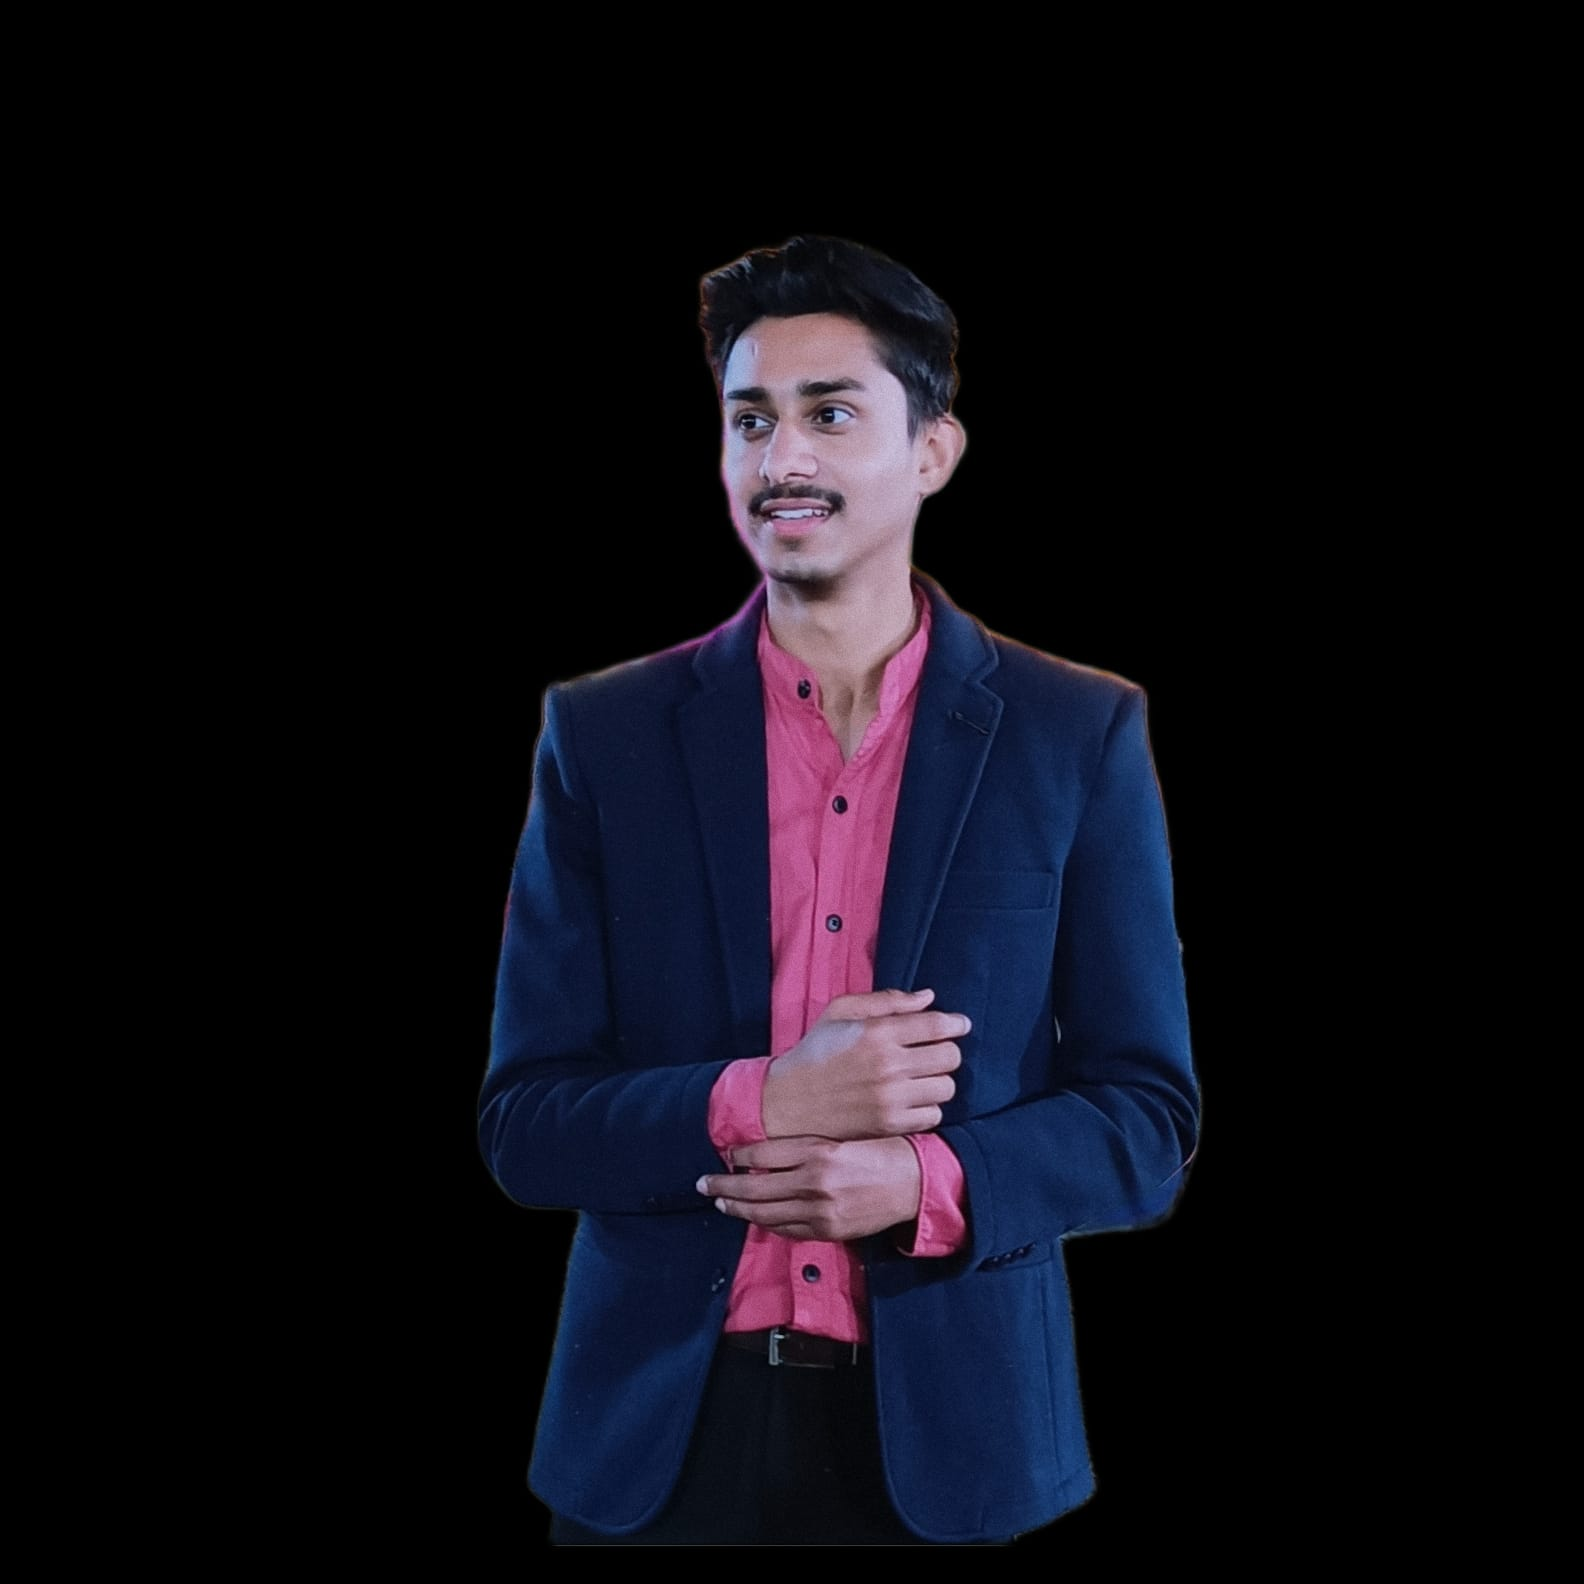
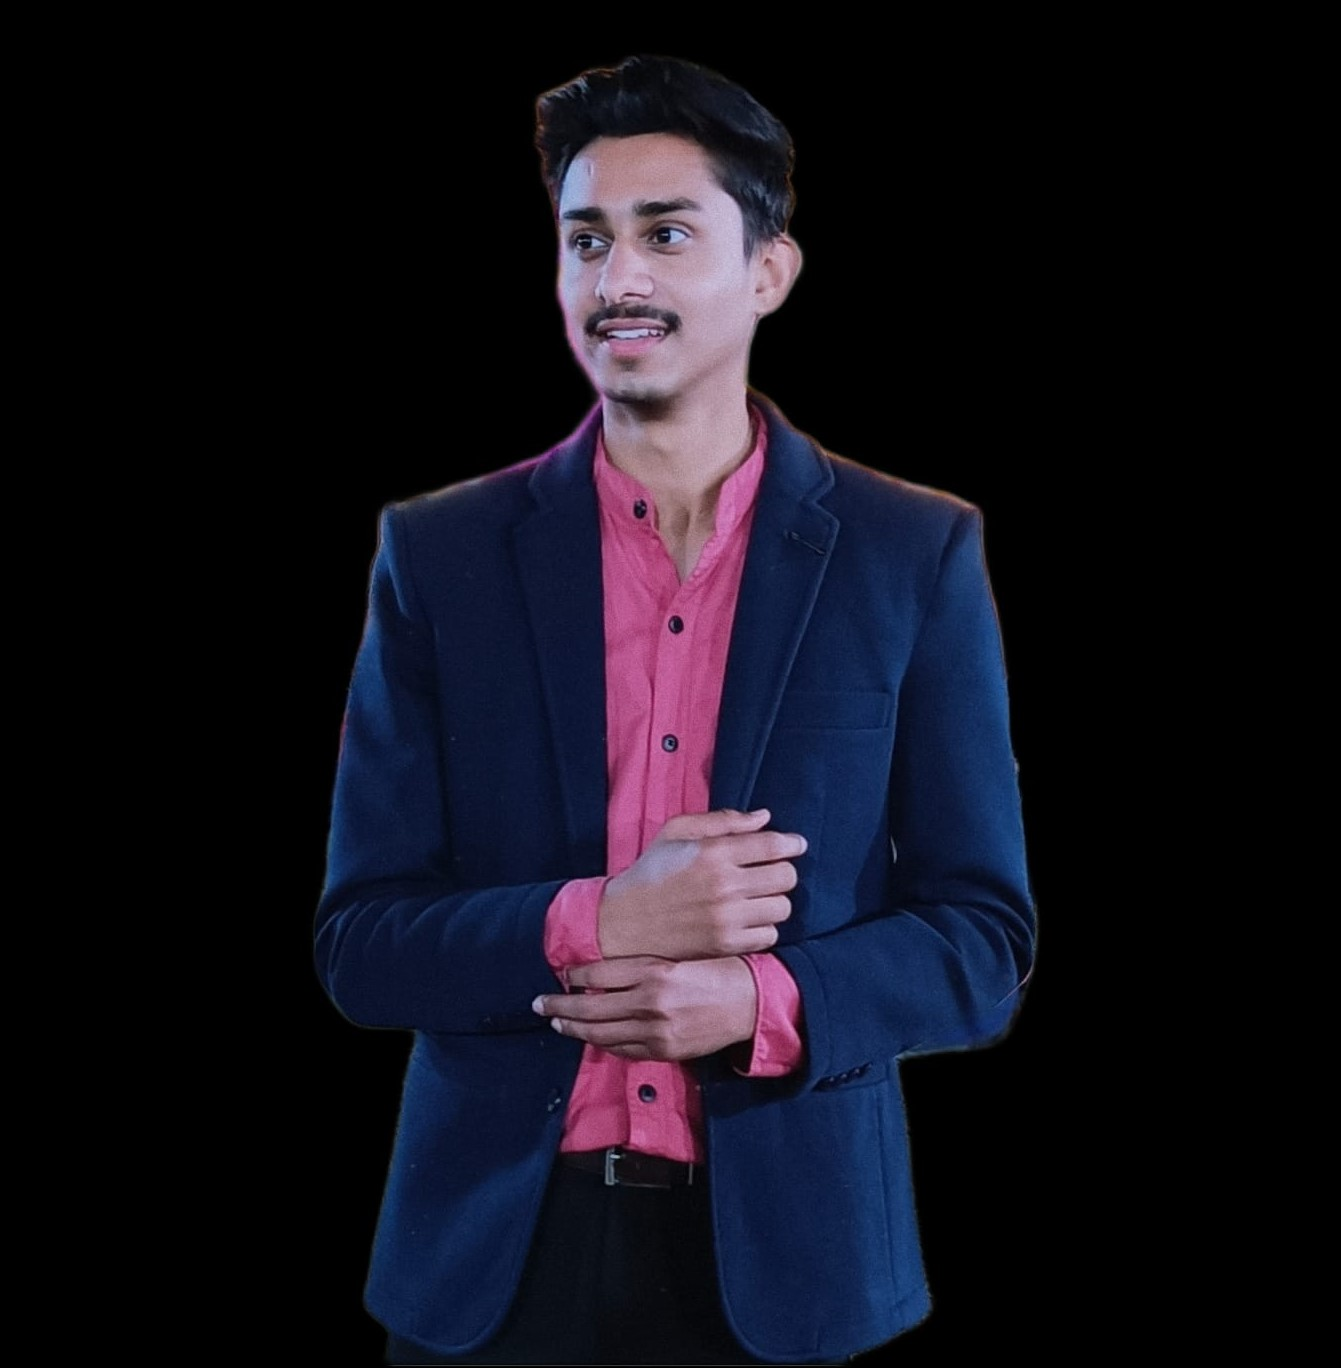
responsive

Changed region(s): [[0.214, 0.0307, 0.7949, 1.0]]

diff --git a/style.css b/style.css
@@ -5,30 +5,52 @@
     box-sizing: border-box ;
 }
 body{
-    background: #080808;
-    color: #fff;
+    background: #000000;
+    color: #fff;   
 }
-#header{
-    width: 100%;   
-    height: 100vh;   
-    background-image: url(/images/floating.gif);
-    background-size: 900px 800px  ;
-    background-position: right;   
-    background-repeat: no-repeat;
-    object-fit: cover;
-    position: relative;
-    right: 70px;  
-}
+    /* #header{
+        width: 100%;   
+        height: 100vh;   
+        background-image: url(img/floating.gif);
+        background-size: 700px 700px  ;
+        background-position: cover;   
+        background-repeat: no-repeat;
+        background-position-y: 100px;
+        background-position-x: 85%;
+        /* object-fit: cover;
+        position: relative;
+        right: 40px;   */
+    */
 
 .container{
     padding: 10px 10%;
 /*  border: 2px solid red;  */
+}
+.main{
+    display: flex;
+   padding-left: 15%;
+    /* border: 1px solid red; */
+}
+.main .img{
+    /* border: 1px solid red; */
+    width: 49.5%;
+}
+.main .img img{
+    width: 75%;
+    height: 80%;
+    margin: 30px 0 0 50px;
+}
+.main .header-text{
+    /* border: 1px solid red; */
+    width: 49.5%;
+    
 }
 nav{
     display: flex;
     align-items: justify;
     justify-content: space-between;
     flex-wrap: wrap;
+    padding-left: 10%;
     /* border: 2px solid red;  */
 }
 
@@ -42,6 +64,7 @@ nav ul li{
     display: inline-block;
     list-style: none;
     margin: 15px 20px ;
+    padding-right: 40px;
 }
 
 nav ul li a {
@@ -94,6 +117,7 @@ nav ul li a:hover::after{
 .about-col-1 img{
     width: 100%;
     border-radius: 15px;
+
 }
 .about-col-2{
     flex-basis: 60%;
@@ -102,6 +126,9 @@ nav ul li a:hover::after{
     font-size: 60px;
     font-weight: 600;
     color: #fff;
+}
+.p1{
+    padding-right: 50px;
 }
 .tab-titles{
     display: flex;
@@ -113,4 +140,102 @@ nav ul li a:hover::after{
     font-weight:500 ;
     cursor: pointer;
     position: relative;
+}
+.tab-contents ul li{
+    list-style: none;
+    margin: 10px 0;
+}
+.tab-contents ul li span{
+    color: #b54769;
+    font-size:  20px;
+}
+
+.tab-links::after{
+    content: "";
+    width: 0;
+    height: 3px;
+    background: #ff004f;
+    position: absolute;
+    left: 0;
+    bottom: -8px;
+    transition: 0.5s;
+} 
+
+@media only screen and  (max-width: 800px){
+    #nav{
+        display: none;
+        padding: 0%;
+    }
+    #header{
+        width: 100%;
+        height: 100vh;
+        padding-top: 130px;
+    }
+    .main{
+        display: flex;
+        /* border: 1px solid red; */
+        flex-direction: column;
+        padding: 0%;
+       
+    }
+    .main .header-text{
+        /* border: 1px solid red; */
+        width: 100%;
+        margin: 10px;
+    }
+    .tab-links {
+        margin-right: 20px;
+        font-size: 25px;
+        font-weight: 500;
+        cursor: pointer;
+        position: relative;
+    }
+    .main .img{
+        /* border: 1px solid red;    */
+        width: 100%;
+    }
+    .row{
+        display: flex;
+        flex-direction: column;
+    }
+    .row .about-col-1{
+        width: 100%;
+    }
+    .row .about-col-1 img{
+        width: 90%;
+        height: 50%;
+        padding-left: 10%;
+    }
+    .row .about-col-2{
+        width: 100%;
+        text-align: center;
+    }
+    .row .about-col-2 .p1{
+        width: 90%;
+        margin: auto;
+        font-size: 19px;
+       letter-spacing: 1px;
+       word-spacing: 1px;
+       padding: 0px;
+    }
+    .header-text #p{
+        text-align: center;
+        font-size: 36px;
+        padding-bottom: 13px;
+        position: relative;
+    }
+    
+    .header-text h1 {
+        font-size: 39px;
+        margin-top: 20px;
+        text-align: center;
+    }
+    .tab-titles {
+        display: flex;
+        margin: 43px 0 40px 20px;
+    }
+    .tab-contents ul{
+        text-align: left;
+        margin: 20px;
+    }
 }

diff --git a/index.html b/index.html
@@ -5,13 +5,13 @@
     <meta name="viewport" content="width=device-width, initial-scale=1.0">
     <title>Aditya Pathak</title>
     <link rel="stylesheet" href="style.css">
-    <source src="app.js" type="">
+    
 </head>
 <body>
     <div id="header">
-        <div class="container">
+        <div class="container" id="nav">
             <nav>
-                <img src="/images/logo.jpeg" alt="" class="logo">
+                <img src="/images/logo.jpeg" alt=""     class="logo">
                     <ul>
                         <li><a href="#">Home</a></li>
                         <li><a href="#">About</a></li>
@@ -20,31 +20,50 @@
                         <li><a href="#">Contact</a></li>  
                     </ul>
             </nav>
-        <div class="header-text">
-            <p> Full-Stack Developer</p>
-            <h1>Hi, I'm <b style="color: #ff0000; font-weight: 600;">Aditya</b> 
-            <br> Pathak from Indore</h1>
         </div>
+        <div class="main">
+            <div class="header-text">
+                <p id="p"> Full-Stack Developer</p>
+                <h1>Hi, I'm <b style="color: #f70c0c; font-weight: 600;">Aditya</b> 
+                <br> Pathak from Indore</h1>
+            </div>
+            <div class="img">
+                <img src="/images/floating.gif" alt="" width="100%" height="100%">
+            </div>
+        </div>
+
     </div>
- </div>
  
 <!------about--------->
+
  <div id="about">
     <div class="container">
         <div class="row">
             <div class="about-col-1">   
-                <img src="/images/secondary.jpg" alt="">
+                <img src="/images/main.jpeg" alt="">
             </div>
             <div class="about-col-2">
                 <div>
                 <h1 class="sub-title">About Me</h1>
-                <p style="text-align: justify; font-weight: 300; font-family :Verdana, Geneva, Tahoma, sans-serif;">As an impassioned software developer , I harbor an insatiable thirst for aquiring new skills and mastering cutting-edge technologies . Endowed with solid programming foundation. I am perpetually driven 
+                <p class="p1" style="text-align: justify; font-weight: 300; font-family :Verdana, Geneva, Tahoma, sans-serif;">As an impassioned software developer , I harbor an insatiable thirst for aquiring new skills and mastering cutting-edge technologies . Endowed with solid programming foundation. I am perpetually driven 
                 to stay at vanguard of the ever-evolving landscape. My insatiable appetite for knowledge fuels my pursuit of complex and challenging projects, as i relish the oppurtunity to expand my expertise and surpass expectations. 
                 </p>
                 <div class="tab-titles">
                     <p class="tab-links">Skills</p>
                     <p class="tab-links">Experience</p>
                     <p class="tab-links">Education</p>
+                </div>
+                <div class="tab-contents">
+                    <ul>
+                        <li><span>Programming Languages</span><br>
+                        HTML-5 , CSS-3 , Javascript , Python</li>
+                        <li><span>Concepts</span><br>
+                        Object Oriented Programming , Database Management System</li>
+                        <li><span>Developer Tools</span><br>
+                        VS Code , MySQL Workbench , MongoDB,  Github  </li>
+                        <li><span>Frameworks and Libraries</span><br>
+                        React JS , Django Web Framework</li>
+                    </ul>
                 </div>
             </div>
         </div>
